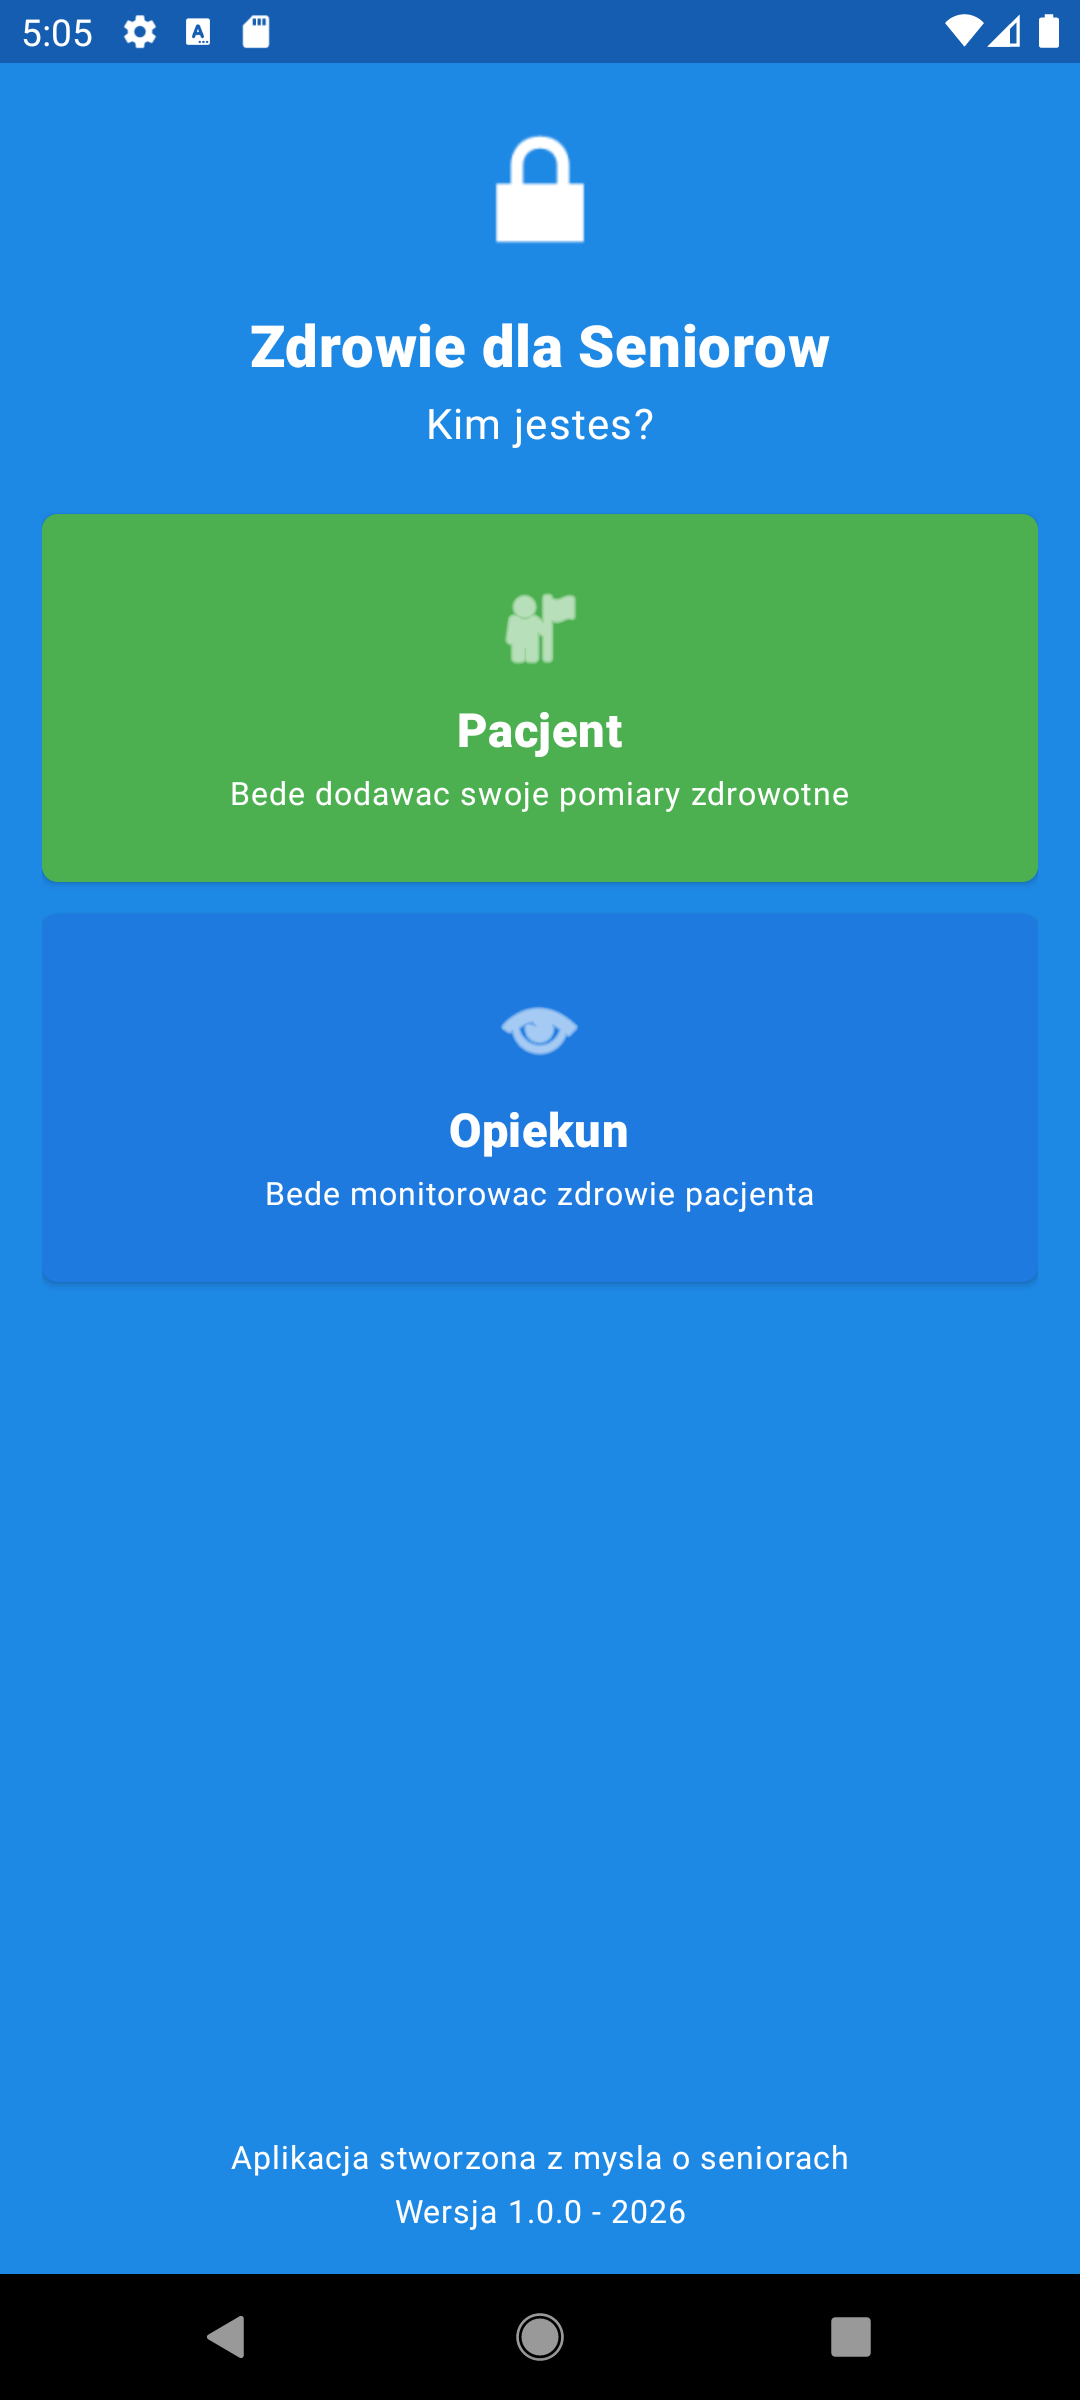
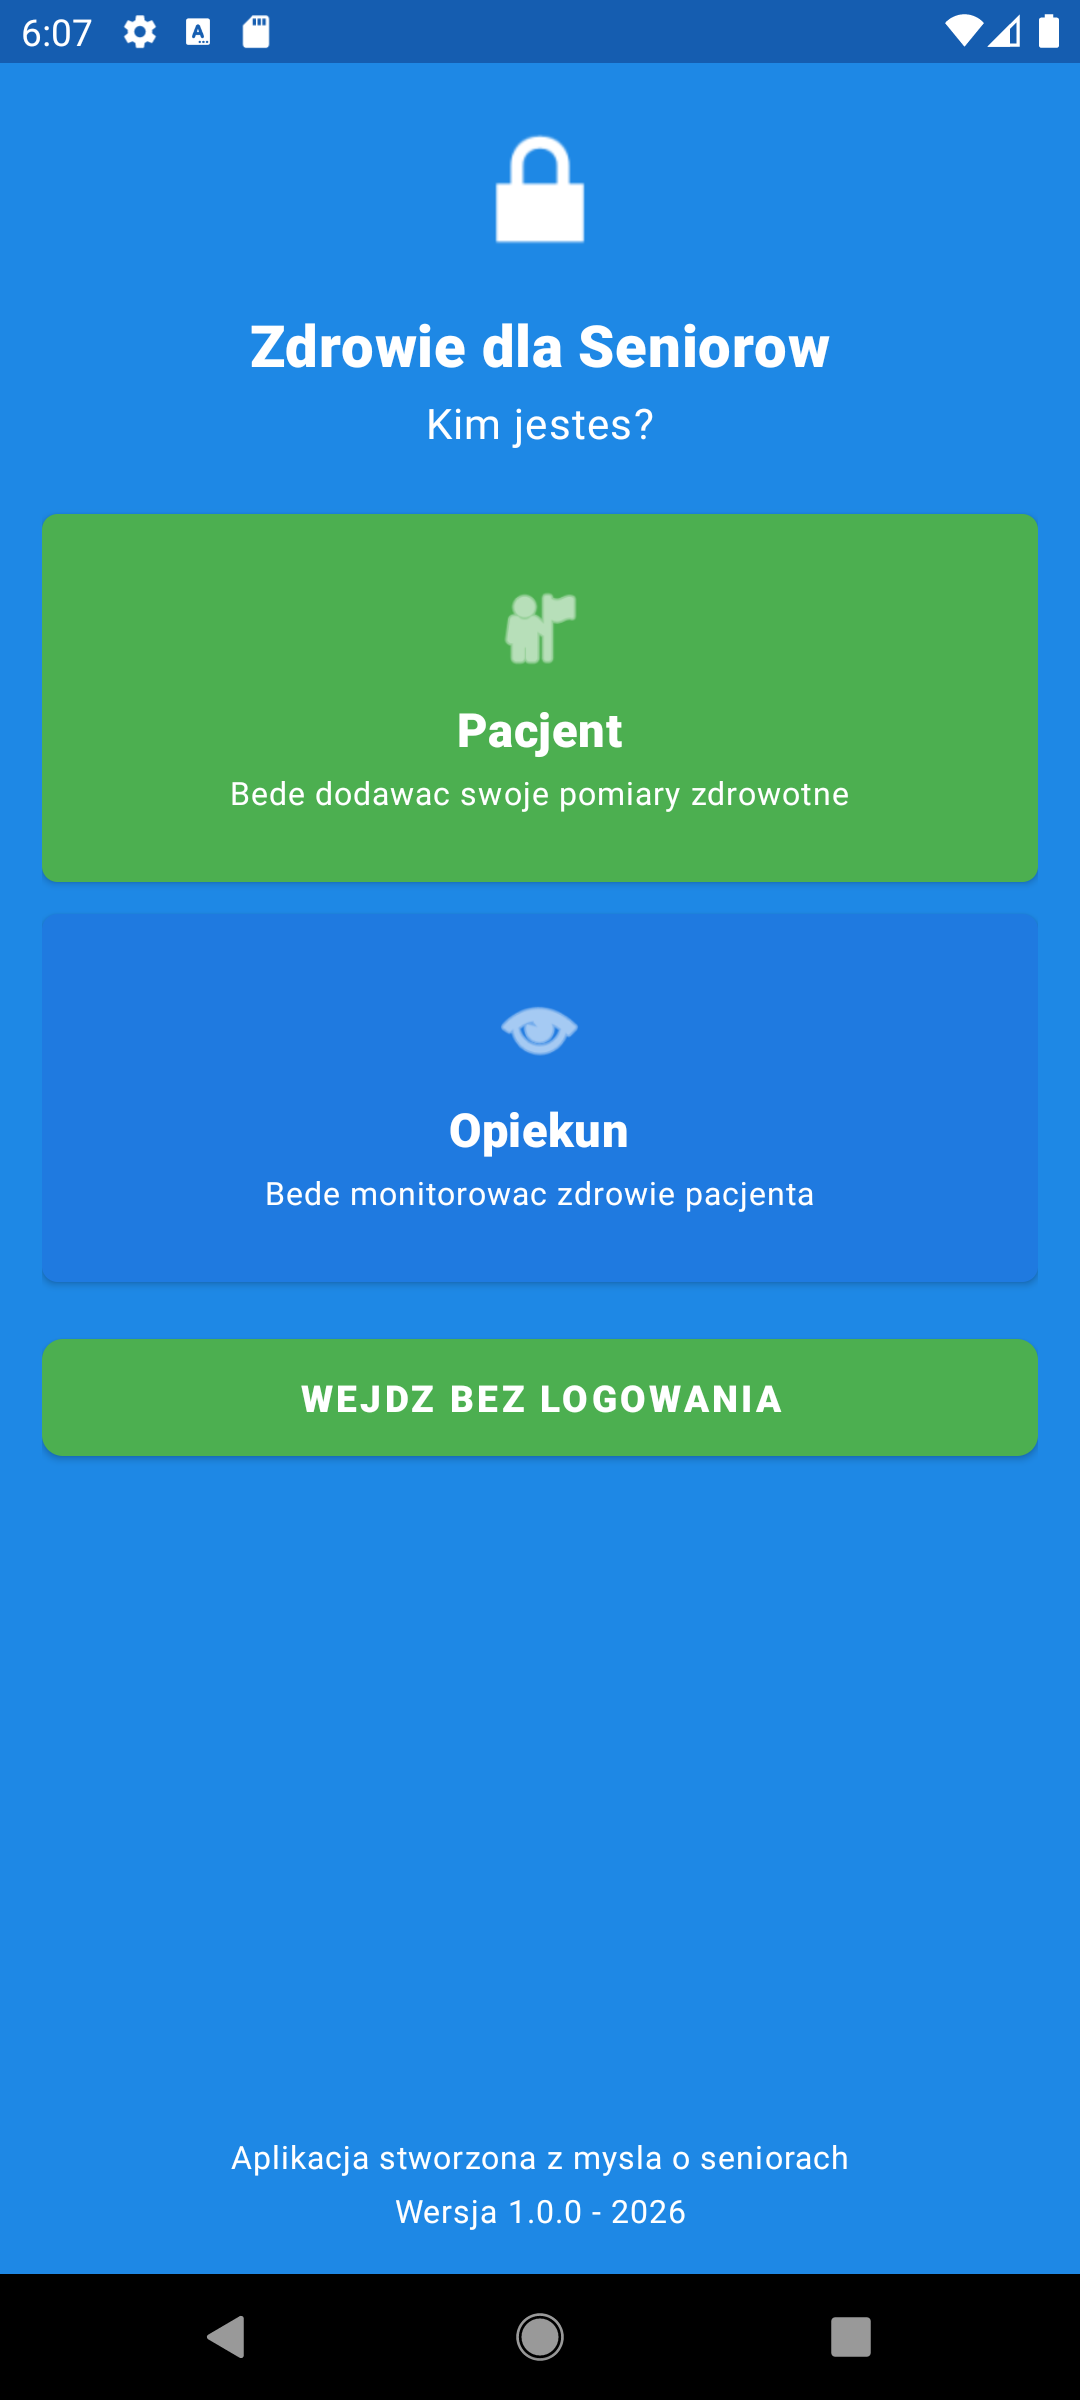
Add dev hub skip and update role select

Changed region(s): [[0.0306, 0.5312, 0.9778, 0.625], [0.0611, 0.0, 0.0917, 0.0312]]

diff --git a/ui/src/main/kotlin/zdrowy/senior/io/ui/dev/DevHubFragment.kt b/ui/src/main/kotlin/zdrowy/senior/io/ui/dev/DevHubFragment.kt
@@ -1,0 +1,27 @@
+package zdrowy.senior.io.ui.dev
+
+import android.os.Bundle
+import android.view.LayoutInflater
+import android.view.View
+import android.view.ViewGroup
+import androidx.fragment.app.Fragment
+import zdrowy.senior.io.ui.databinding.FragmentDevHubBinding
+
+class DevHubFragment : Fragment() {
+    private var _binding: FragmentDevHubBinding? = null
+    private val binding get() = _binding!!
+
+    override fun onCreateView(
+        inflater: LayoutInflater,
+        container: ViewGroup?,
+        savedInstanceState: Bundle?
+    ): View {
+        _binding = FragmentDevHubBinding.inflate(inflater, container, false)
+        return binding.root
+    }
+
+    override fun onDestroyView() {
+        _binding = null
+        super.onDestroyView()
+    }
+}

diff --git a/ui/src/main/kotlin/zdrowy/senior/io/ui/auth/RoleSelectFragment.kt b/ui/src/main/kotlin/zdrowy/senior/io/ui/auth/RoleSelectFragment.kt
@@ -25,6 +25,9 @@ class RoleSelectFragment : Fragment() {
         binding.roleSelectCaregiverCard.setOnClickListener {
             findNavController().navigate(R.id.action_roleSelect_to_caregiverLogin)
         }
+        binding.roleSelectDevSkip.setOnClickListener {
+            findNavController().navigate(R.id.action_roleSelect_to_devHub)
+        }
         return binding.root
     }
 

diff --git a/docs/PLAN.md b/docs/PLAN.md
@@ -39,10 +39,9 @@ Zasady etapu:
 ### 4.1 Auth flow
 - [x] Nawigacja: kompletne wejscia/wyjscia, powroty
 - [x] Layouty i widoki — Ekran wyboru roli
-- [ ] Layouty i widoki — Logowanie (telefon/kod) — pacjent
 - [x] Layouty i widoki — Logowanie (telefon/kod) — pacjent
-- [ ] Layouty i widoki — Logowanie (telefon/kod) — opiekun
 - [x] Layouty i widoki — Logowanie (telefon/kod) — opiekun
+- [x] Layouty i widoki — Dev Hub (wejscie bez logowania)
 - [ ] Layouty i widoki — Weryfikacja SMS — pacjent
 - [ ] Layouty i widoki — Weryfikacja SMS — opiekun
 - [ ] Dummy repo (mock danych zgodnych z makietami)
